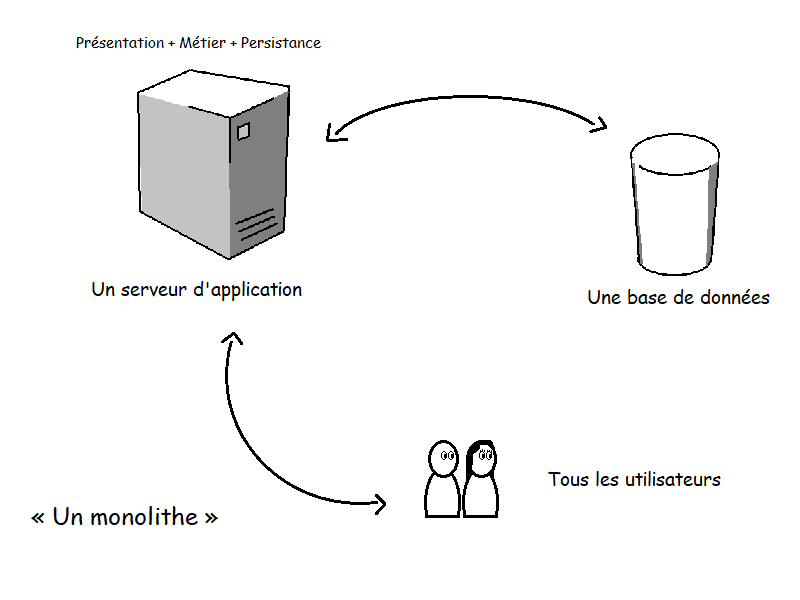
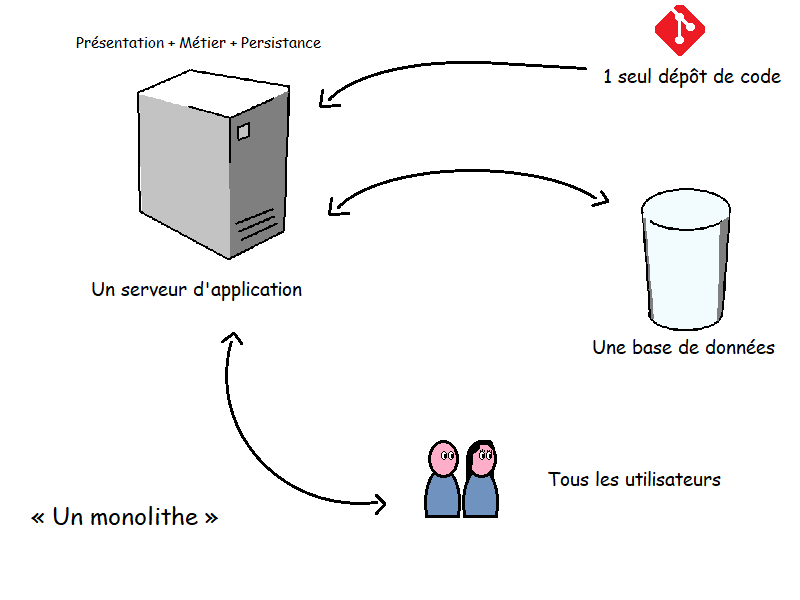
readme

diff --git a/index.html b/index.html
@@ -291,7 +291,7 @@
     <script src="plugin/highlight/highlight.js"></script>
     <script>
       Reveal.initialize({
-        hash: true,
+        hash: true,slideNumber: true,
         plugins: [RevealMarkdown, RevealHighlight, RevealNotes],
       });
     </script>

diff --git a/README.md b/README.md
@@ -1,52 +1,199 @@
-<p align="center">
-  <a href="https://revealjs.com">
-  <img src="https://hakim-static.s3.amazonaws.com/reveal-js/logo/v1/reveal-black-text-sticker.png" alt="reveal.js" width="500">
-  </a>
-  <br><br>
-  <a href="https://github.com/hakimel/reveal.js/actions"><img src="https://github.com/hakimel/reveal.js/workflows/tests/badge.svg"></a>
-  <a href="https://slides.com/"><img src="https://s3.amazonaws.com/static.slid.es/images/slides-github-banner-320x40.png?1" alt="Slides" width="160" height="20"></a>
-</p>
 
-reveal.js is an open source HTML presentation framework. It enables anyone with a web browser to create beautiful presentations for free. Check out the live demo at [revealjs.com](https://revealjs.com/).
+# COMMENTAIRES
+--------------
 
-The framework comes with a powerful feature set including [nested slides](https://revealjs.com/vertical-slides/), [Markdown support](https://revealjs.com/markdown/), [Auto-Animate](https://revealjs.com/auto-animate/), [PDF export](https://revealjs.com/pdf-export/), [speaker notes](https://revealjs.com/speaker-view/), [LaTeX typesetting](https://revealjs.com/math/), [syntax highlighted code](https://revealjs.com/code/) and an [extensive API](https://revealjs.com/api/).
+## SLIDE 1
+  - le monolithe et les appli maison  
 
----
+## SLIDE 2
 
-### Sponsors
-Hakim's open source work is supported by <a href="https://github.com/sponsors/hakimel">GitHub sponsors</a>. Special thanks to:
-<div align="center">
-<a href="https://www.doppler.com/?utm_campaign=github_repo&utm_medium=referral&utm_content=revealjs&utm_source=github">
-  <div>
-    <img src="https://user-images.githubusercontent.com/629429/146530588-2980c34d-862f-4393-8ac3-65fbef6443ca.png" width="290" alt="Doppler">
-  </div>
-  <b>All your environment variables, in one place</b>
-  <div>
-    <sub>Stop struggling with scattered API keys, hacking together home-brewed tools,</sub>
-    <br>
-    <sup>and avoiding access controls. Keep your team and servers in sync with Doppler.</sup>
-  </div>
-</a>
-</div>
+## SLIDE 3
+  définition
+  ----------
+  Une application monolithique et par extension une architecture monolithique est 
+  une application dont l'ensemble du code et des fonctionnalités sont implémentés 
+  dans un seul programme, au travers d'une seule base de données.
 
----
+  commentaires
+  ------------
+  - l'ensemble des couches applicatives sont liées au travers d'une seule réalisation.
+  - une base, le plus souvent relationnelle fédère l'ensemble de la donnée au travers d'un modèle métier unique.
+  - un seul dépôt de code.
+  - dans sa version la plus hard, une seule instance de déploiement.
 
-### Getting started
-- 🚀 [Install reveal.js](https://revealjs.com/installation)
-- 👀 [View the demo presentation](https://revealjs.com/demo)
-- 📖 [Read the documentation](https://revealjs.com/markup/)
-- 🖌 [Try the visual editor for reveal.js at Slides.com](https://slides.com/)
-- 🎬 [Watch the reveal.js video course (paid)](https://revealjs.com/course)
+## SLIDE 4
+  - à l'institut, comme dans le reste du monde la situation dans la pratique est plus nuancée. 
+  - un peu réducteur. Ne reflète pas la diversité du parc applicatif de l'institut.
 
----
+## SLIDE 5
+  - depuis quelques années déjà, de nombreuses petites application.
+  - séparation physique de la couche présentation. Cette isolation franche facilite l'évolutivité du client de présentation, voir sa refonte intégrale (onyxia par ex).
+  - le web-service conçu, s'il est conçu comme non couplé à l'ihm pourrait-être ouvert à d'autres usages, d'autres utilisateurs.
+  - plus un monolithe au sens strict du terme.
+  - toutefois toute la logique métier concentrée dans le même code et les mêmes données.
+  - petit besoin, petite appli : au fond c'est suffisant pour pas mal de système.
+  - toutefois, cette première expérience illustre déjà le bénéfice potentiel d'une architecture plus modulaire(même si ici on isole juste une couche)  
 
-### Online Editor
-Want to create your presentation using a visual editor? Try the official reveal.js presentation platform for free at [Slides.com](https://slides.com). It's made by the same people behind reveal.js.
+## SLIDE 6
+  - la logique métier souvent répartit derrière plusieurs sous-modules : le back, le front, l'appli de collecte, ....
+  - toujours une seule base de données et un seul modèle.
+  - dans la pratique ça reste un monolithe ou chaque composant est prévu pour servir un système conçu et modélisé comme un seul bloc.
+  - refaire un composant reste lourd et risqué pour les autres modules.
 
-<br>
-<br>
+## SLIDE 7 : Les avantages
+  commentaires
+  -----------
+  - c'est ce que l'on sait faire et ce à quoi on nous prépare au travers des formations attachés et contrôleurs
+  - plus simple à développer (code et version) et à deployer. 
+  - pas besoin de services transverses (broker, gestion de containers, ...)
+  - moins coûteux : moins de fragmentation = moins de code = moins de travail(donc moins d'ETP), moins d'env, pas d'inv transversaux.
 
---- 
-<div align="center">
-  MIT licensed | Copyright © 2011-2022 Hakim El Hattab, https://hakim.se
-</div>
+## SLIDE 8 : les limites
+  commentaires
+  ------------
+  - gros ensemble ensemble de code avec une forte intrication des fonctionnalités devient toujours plus difficile à maintenir au fil du temps (correction et évolution) avec le temps.
+  - redéploiement en production complexe, parfois pour quelques lignes seulement.
+  - socle technique verrouillé à la conception.
+  - obsolescence d'une pièce entraîne l'obsolescence de l'ensemble.
+  - au final, une refonte tout les 5 ans = coûteux à long terme.
+
+## SLIDE 9 : parties 2, principes et patterns
+Un simple aperçu, bien d'autres existent
+
+## SLIDE 10
+  Principe de réalisation qui consiste à tracer des frontières pour isoler les grands ensembles fonctionnels ou techniques.
+  - ce traduit en général par l'isolation d'élément cohérent d'information du système.
+  => principe applicable à plusieurs degrés : même pour un monolithe dans un seul dépôt le principe est envisageable.
+
+## SLIDE 11
+  - Le 3 tiers est une séparation technique des couches applicatives, largement appliquée.
+  - MVC, MBP, tout les patterns MV*
+
+## SLIDE 12
+   Séparation métier
+  - isolation des logiques distinctes selon les spécificités propre à chaque acteur.
+    isolation peut se formaliser :
+      . au niveau du code par des règles de nommage de classes/packages, des modules autonomes (Séparation logique).
+      . au niveau de l'architecture par des services isolées encapsulant données et fonctionnalités(Séparation physique).
+
+## SLIDE 13
+  Principe de réalisation selon lequel chaque module, classe ou fonction ne doit être porteur que d'une seule fonctionnalité et l'encapsule.
+  Dit plus vulgairement un module, une classe ou une fonction ne fait " qu'une chose " 
+  - SOC peut-être perçu comme un ensemble cohérent de responsabilités. 
+  - principe bien connu des dev Java : une classe n'a qu'une seule responsabilité.
+  - Au fond, tout est affaire de sémantique : c'est le concepteur qui pose les mots définissant les responsabilités.
+
+## SLIDE 14
+ - SOC et SRP : ce sont 2 principes coutumiers pour tout développeur, appliqués au quotidien dans l'écriture de code.
+ - séparation en module souvent effective à l'Insee, mais sans séparation physique (des données).
+
+## SLIDE 15
+  Le pattern CQRS (Command Query Responsibility Segregation) repose sur un principe simple : 
+  la séparation, au sein d’une application, des composants de traitement métier de l’information (“command” / écriture) et de restitution de l’information (“query” / lecture).
+  (extrait d'octo talk : https://blog.octo.com/cqrs-larchitecture-aux-deux-visages-partie-1/) 
+  - Grosso modo : on sépare les opérations de lecture des opérations d'écriture.
+  - Selon ce principe, la représentation de la donnée dans un système efficace n'est pas unique :
+    - une vision métier pour COMMANDS : facilitant la lisibilité et la compréhension des opérations d'écriture, jugées souvent plus complexes.
+    - une vision orienté présentation pour QUERIES : accélérant le processus de restitution de la données, en passant le modèle pour l'affichage
+      (dénormalisation de la data pour éviter de grosse jointure, souvent croisé des vues matérialisées ou des tables dont c'est la vocation)
+  - Pattern libre d'implémentation. : s'applique à des degrés différents :
+    - une petite application peu se contenter de séparer les responsabilités d'écriture au sein de classe distinctes
+    - un gros système pourra formaliser des services et des systèmes de stockage de données distincts. 
+
+## SLIDE 16
+- à gauche les opérations d'écriture : une base construite autour du modèle métier
+- à droite les opérations de lecture :  une base structurée autour des objets de présentation (DTO), un modèle métier orienté vers la
+présentation.
+
+## SLIDE 17 Event sourcing
+l'ES est un pattern d'architecture dans lequel la trace de l'état de chaque
+entité n'est pas assuré au travers d'une seule base relationnelle, mais en validant et conservant
+l'ensemble des évènement qui affecte ces états, dans un store spécialisé.
+- L'état courant est l'aggregation de tout les évènement, depuis un état initial donné.
+- on ne conserve pas le solde de ton compte, mais l'ensembles des mouvements sur ton compte. Le solde c'est juste la somme de ces mouvements.
+- pour les comptables, c'est un peu la différence qui sépare le bilan et le compte de résultat.
+
+## SLIDE 18 : le pattern en lui-même
+- command -> fonction de décision -> events -> fonction d'évolution -> state -> action ...
+
+## SLIDE 19 
+
+## SLIDE 20 partie 3 : l'architecture de microservices
+  définition
+  ----------
+  Technique d'architecture et de conception logiciel où le système est structuré en un ensemble indépendant de services simples, 
+  faiblement couplés les un les autres.
+  - chaque fonctionnalité du système,
+    - est isolé dans son propre runtime.
+    - possède son propre système de données.
+    - est conçu comme une application à part entière.
+  - un mode d'organisation innovant : un service = une team (squad produit : une équipe auto-organisée. 
+  (Les membres se sont choisis et décident de la construction du produit)
+
+## SLIDE 21 un système plus distribué
+- de la donnée éclatée entre les MS
+- plusieurs petites application inter-agissent au travers du réseau (HTTP)
+- on remplace les appels de méthodes/fonctions par des invocations réseau
+
+## SLIDE 22 : vers une plus grande isolation
+Les microservices pousse à l'isolation potentiellement jusqu'à l'extrême.
+- isolation au mieux des responsabilités : portage de SRP à l'échelle de l'architecture.
+- isolation du code : jusqu'au runtime.
+- isolation des données : séparation physique et conceptuelle de la données.
+        
+## SLIDE 23 : le réseau NETFLIX
+- un appel client se solde par un processus de résolution non prédictible par avance.
+
+## SLIDE 24 
+  A mesure où le système gagne en souplesse et en isolation, il perd en consistance. 
+  - La même information peut exister à des endroits différent selon les besoins propre de chaque service.
+  - Le système peut, sur un interval de temps se trouver à un état incohérent, le temps que l'information se propage dans le nuage de service.
+  quelques pistes :
+    - garder un seul runtime = monolithe forever
+    - un système transactionnel logiciel : ça existe mais c'est complexe et pas à l'abris des pannes.
+    - assumer les certains risques (ou relativiser leur gravité) et proposer des règles côté métier pour contourner certaines situations.
+
+  un exemple : 
+  ------------
+  un site marchand avec une dispo d'une seule unité, dans un système de microservice peu se solder par la commande 
+  d'un produit indisponible, car vendu à l'instant même à un autre. Mais à bien y réfléchir, ce n'est pas un problème
+  de consistance et de gestion transactionnelle : comment a-t-on pu laisser le stock tomber à un niveau si bas ! 
+  L'ajout d'un simple règle métier peut prévenir ce genre de situation et même éviter des non ventes en limitant les indisponibilités 
+  de stock. Faire passer le métier devant la technique et ne pas voir les contraintes techniques comme un rampart systématique.
+
+## SLIDE 25 orchestration
+- système placé au dessus du graph de service pour assurer sa cohérence globale.
+- assure l'invocation/synchronisation des services jusqu'à l'obtention d'un état.
+- assure les mesures correctives en cas de défaillance.
+
+Dans la pratique consiste à décrire des workflows de processus métier, au travers de charts (BPMN specification) ou
+directement dans un langage. Au fond cela ressemble un peu au scheduler (ordonnanceur) gros système, pour ceux qui ont connu ;)
+
+- recouplage des services au travers du système d'orchestration (en contradiction avec l'esprit initiale des MS).
+  -> Le monolithe distribué. 
+  Arbitrage isolation/consistence.
+
+## SLIDE 26 illustration de la orchestration
+- système placé au dessus du graph de service pour assurer sa cohérence globale.
+- assure l'invocation/synchronisation des services jusqu'à l'obtention d'un état.
+- assure les mesures correctives en cas de défaillance.
+
+Dans la pratique consiste à décrire des workflows de processus métier, au travers de charts (BPMN specification) ou
+directement dans un langage. Au fond cela ressemble un peu au scheduler (ordonnanceur) gros système, pour ceux qui ont connu ;)
+
+- recouplage des services au travers du système d'orchestration (en contradiction avec l'esprit initiale des MS).
+  -> Le monolithe distribué. 
+  Arbitrage isolation/consistence.
+
+## SLIDE 27 la chorégraphie
+En s'inspirant des systèmes réactifs (events driven), la chorégraphie est un moyen d'assurer la mise en cohérence des microservices
+
+## SLIDE 28 illustration
+
+## SLIDE 29 avantages et limites
+  - ++
+    - ne plus lier le destin de chacune des fonctionnalités au travers d'un seul gros système.
+    - plus complexe d'un point de vu technique, mais en divisant la complexité, plus facile à concevoir.
+  - --
+    - la complexité technique. plus d'env, plus d'outils pour coordonner l'ensemble des briques.
+    - complexité transactionnelle, rupture radicale de l'approche de la données pour nous.
